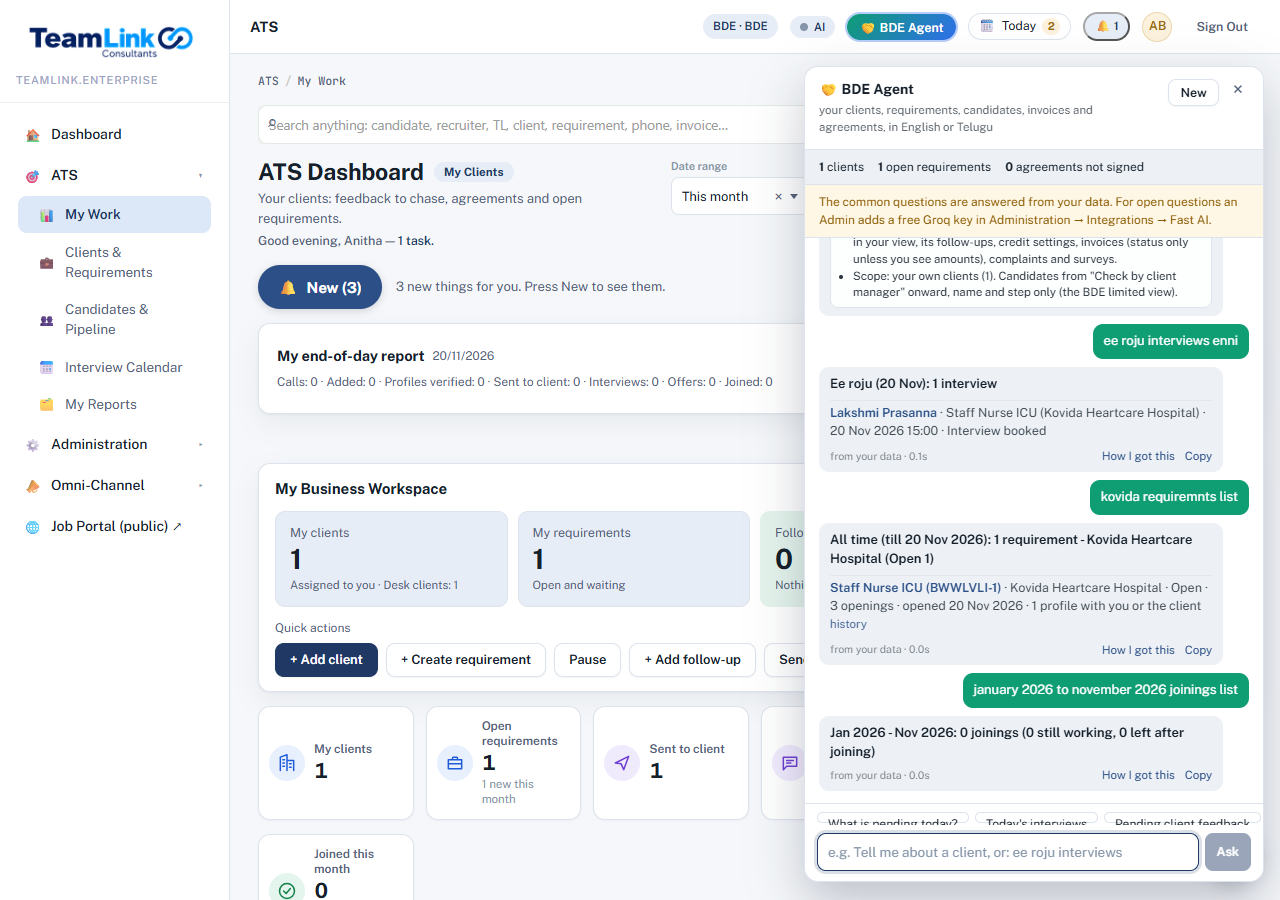
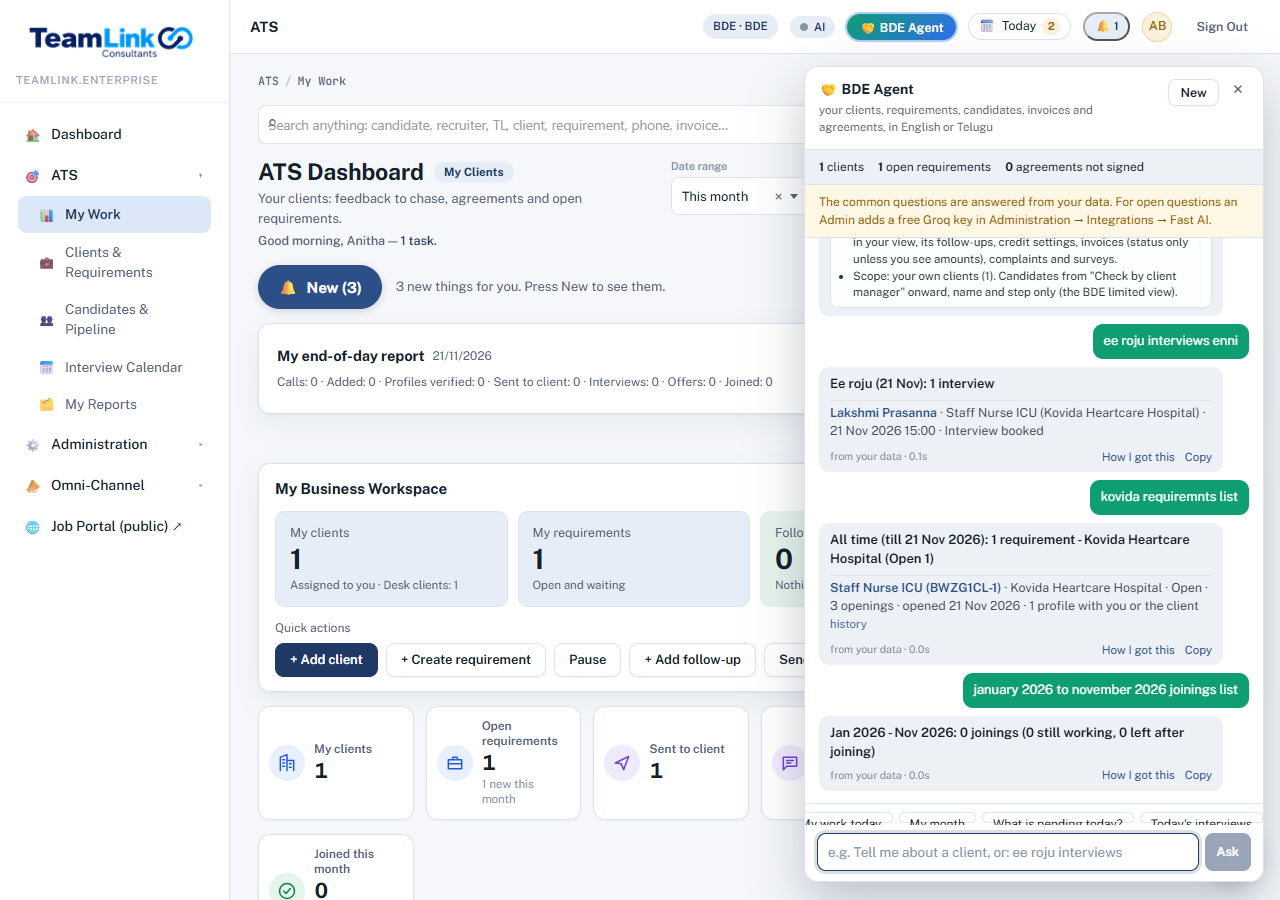
BDE Agent: team chips first for a BDE TL, My work today / My month for a BDE; browser smoke of the TL team and person reports; screenshots

diff --git a/backend/scripts/bde-agent-browser.js b/backend/scripts/bde-agent-browser.js
@@ -131,14 +131,16 @@ const waitFor = async (url, tries = 240) => { for (let i = 0; i < tries; i += 1)
         await pill.click();
         const panel = tl.page.locator('[data-testid="bde-agent-panel"]');
         const chip = panel.locator('.bde-agent-chip', { hasText: 'All BDEs today' });
-        check('BDE TL: the "All BDEs today" chip is there', await chip.waitFor({ state: 'visible', timeout: 20000 }).then(() => true).catch(() => false));
+        const chipUp = await chip.waitFor({ state: 'visible', timeout: 90000 }).then(() => true).catch(() => false);
+        if (!chipUp) await tl.page.screenshot({ path: path.join(SHOTS, 'debug-tl-chips.png') });
+        check('BDE TL: the "All BDEs today" chip is there', chipUp, chipUp ? undefined : await panel.innerText().catch(() => ''));
         await chip.click();
         const team = panel.locator('.bde-agent-msg.ai .bde-agent-title', { hasText: 'all BDEs' }).last();
         check('BDE TL: the team report comes back with the window first ("Today (..): all BDEs ...") and a row for the BDE', await team.waitFor({ state: 'visible', timeout: 60000 }).then(() => true).catch(() => false) && (await panel.locator('.bde-agent-msg.ai').last().innerText()).includes(bde.name));
         const input = panel.locator('input[aria-label="Question for the BDE Agent"]');
         await input.fill('Anitha');
         await input.press('Enter');
-        check('BDE TL: typing a BDE\'s first name gives that person\'s report for today', await panel.locator('.bde-agent-msg.ai .bde-agent-title', { hasText: `${bde.name} - 1 interviews` }).last().waitFor({ state: 'visible', timeout: 60000 }).then(() => true).catch(() => false));
+        check('BDE TL: typing a BDE\'s first name gives that person\'s report for today', await panel.locator('.bde-agent-msg.ai .bde-agent-title', { hasText: `${bde.name} - 1 interview,` }).last().waitFor({ state: 'visible', timeout: 60000 }).then(() => true).catch(() => false));
         await tl.page.screenshot({ path: path.join(SHOTS, '6-tl-team-and-person.png') });
       } else check('BDE TL: the BDE Agent button is in the top bar', false);
       await tl.ctx.close();

diff --git a/backend/src/utils/bdeAgentTeam.js b/backend/src/utils/bdeAgentTeam.js
@@ -24,6 +24,7 @@ const R = () => require('./bdeAgentRouter'); // eslint-disable-line global-requi
 const H = () => R()._h;
 const say = L.say;
 const TEST_RE = /zztest|example\.test/i;
+const pl = (n, one, many) => `${n} ${n === 1 ? one : many}`;
 
 // ---- who ---------------------------------------------------------------------------------------------------------------------------
 const canSeeTeam = (ctx) => ctx.role === 'admin' || ctx.role === 'bdetl';
@@ -271,7 +272,7 @@ async function personReport(ctx, p, lang, who, note) {
   return h.answer(ctx, {
     intent: 'person', count: stats.interviews + stats.followups + stats.joinings, total: items.length, stats, record: { kind: 'person', id: ctx.user.id, name },
     title: say(lang, {
-      en: `${when}: ${name} - ${stats.interviews} interviews, ${stats.followups} client follow-ups, ${stats.shared} profiles shared, ${stats.joinings} joinings`,
+      en: `${when}: ${name} - ${pl(stats.interviews, 'interview', 'interviews')}, ${pl(stats.followups, 'client follow-up', 'client follow-ups')}, ${pl(stats.shared, 'profile shared', 'profiles shared')}, ${pl(stats.joinings, 'joining', 'joinings')}`,
       tl: `${when}: ${name} - ${stats.interviews} interviews, ${stats.followups} client follow-ups, ${stats.shared} profiles share, ${stats.joinings} joinings`,
       te: `${when}: ${name} - ${stats.interviews} ఇంటర్వ్యూలు, ${stats.followups} ఫాలో-అప్లు, ${stats.shared} ప్రొఫైల్లు, ${stats.joinings} జాయినింగ్లు`,
     }),

diff --git a/backend/scripts/bde-agent-test.js b/backend/scripts/bde-agent-test.js
@@ -390,7 +390,7 @@ const inMonth = (d) => d.slice(0, 7) === T.slice(0, 7);
 
     // ---- round 3: people, the team, departments, history, keywords (founder 2026-11-21) --------------------------------------------
     // BDE: own work only
-    ['A', 'my report today', { intent: 'person', stats: { followups: 2, meetings: 1, candFollowups: 1, calls: 1, reqsRaised: 3, reqsClosed: 1, shared: 0, interviews: 1, feedbackIn: 0, selections: 0, offers: 0, joinings: 0, drops: 0, newClients: 2, signed: 0, replacementsDue: 1, invOverdue: 1, lateFollowups: 1 }, text: new RegExp(`^Today \\(${L.dm(T)}\\): ${A.name} - 1 interviews, 2 client follow-ups`) }],
+    ['A', 'my report today', { intent: 'person', stats: { followups: 2, meetings: 1, candFollowups: 1, calls: 1, reqsRaised: 3, reqsClosed: 1, shared: 0, interviews: 1, feedbackIn: 0, selections: 0, offers: 0, joinings: 0, drops: 0, newClients: 2, signed: 0, replacementsDue: 1, invOverdue: 1, lateFollowups: 1 }, text: new RegExp(`^Today \\(${L.dm(T)}\\): ${A.name} - 1 interview, 2 client follow-ups`) }],
     ['A', 'My work today', { intent: 'person', stats: { followups: 2, interviews: 1 } }],
     ['A', 'naa report ee roju', { intent: 'person', lang: 'tl', stats: { followups: 2, interviews: 1 } }],
     ['A', 'my report this week', { intent: 'person', stats: { shared: wk.shared, interviews: exp.ivWeek, selections: wk.selections, offers: wk.offers, joinings: wk.joinings, drops: wk.drops, followups: wk.followupsA } }],

diff --git a/backend/src/utils/bdeAgent.js b/backend/src/utils/bdeAgent.js
@@ -189,11 +189,13 @@ async function overview(user) {
   const LIVE = require('./atsVocab').REQUIREMENT_LIVE_STATUSES; // eslint-disable-line global-require
   const st = await fastAi.status().catch(() => ({ ready: false }));
   const unsigned = ctx.clients.filter((c) => !require('./atsVocab').agreementIsSigned(c.agreementStatus)).length; // eslint-disable-line global-require
+  const team = ['admin', 'bdetl'].includes(ctx.role);
   const chips = [
+    ...(team ? ['All BDEs today', 'All BDEs interviews this week', 'Team joinings month wise', 'Department report'] : []),
+    ...(ctx.role === 'bde' ? ['My work today', 'My month'] : []),
     "What is pending today?", "Today's interviews", 'Pending client feedback', 'Profiles shared this week', 'Follow-ups due', 'Joinings this month', 'Joinings till now',
     'Replacements due', 'Overdue invoices', 'Agreements expiring in 30 days', 'Agreements not signed',
-    ...(ctx.role === 'bde' ? ['My work today', 'My month', 'My target this month'] : ['Clients with no activity']),
-    ...(['admin', 'bdetl'].includes(ctx.role) ? ['All BDEs today', 'All BDEs interviews this week', 'Team joinings month wise', 'Department report'] : []),
+    ...(ctx.role === 'bde' ? ['My target this month'] : ['Clients with no activity']),
     ...(ctx.billing ? ['Pending invoice amount'] : []),
     'How do I raise a requirement?',
   ];
